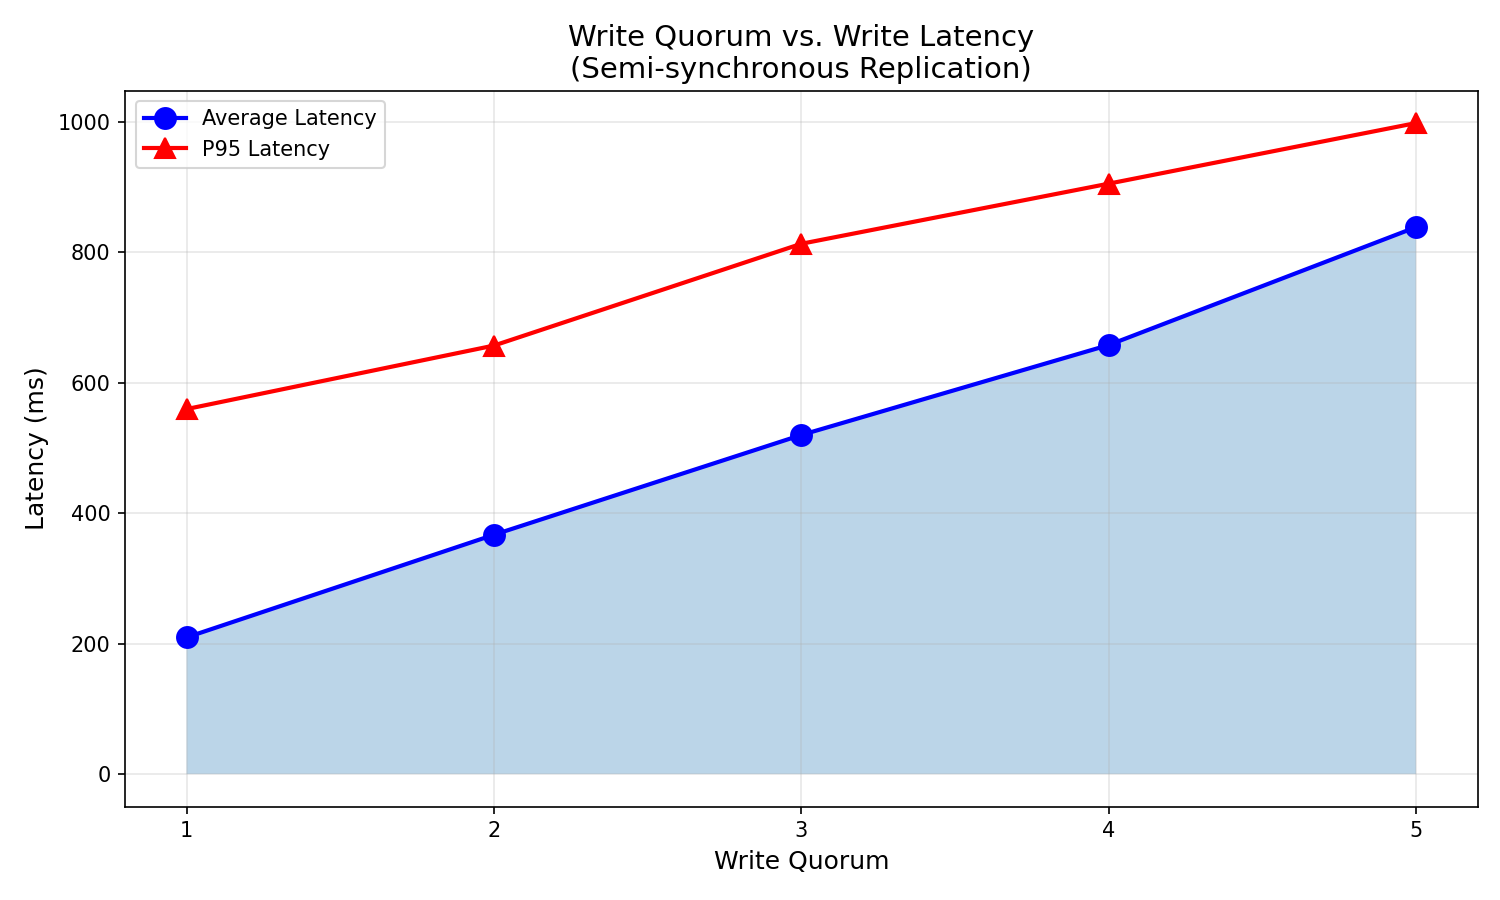
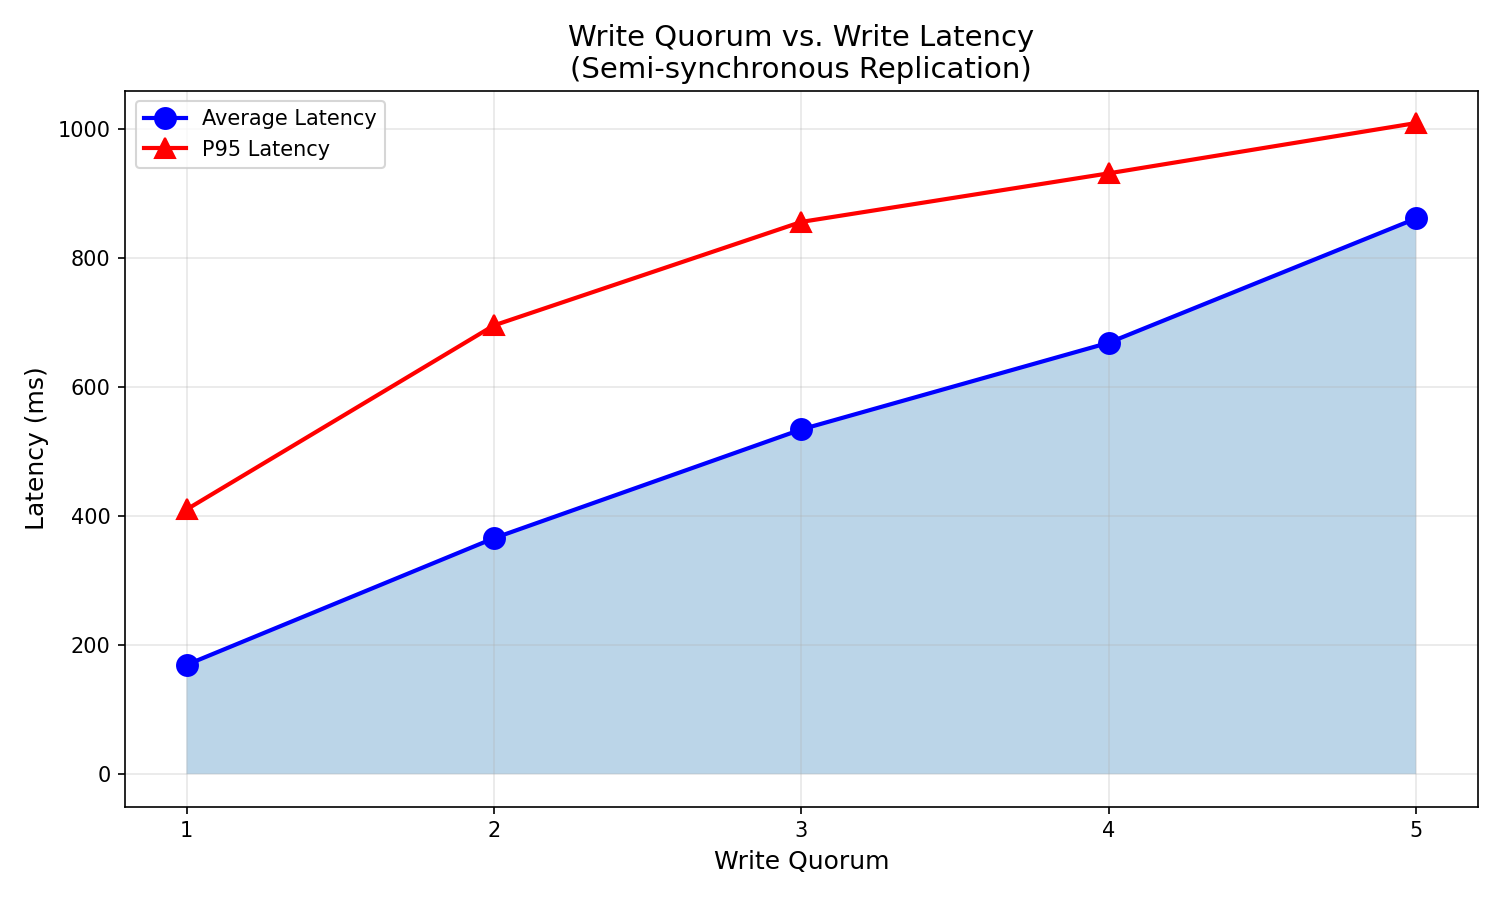
lab4 report update

diff --git a/lab4/performance_analysis.py b/lab4/performance_analysis.py
@@ -158,17 +158,38 @@ def verify_consistency(prefix: str) -> Dict[str, any]:
             # Compare with leader
             for key, leader_value in test_keys.items():
                 if key in follower_test_keys:
-                    if follower_test_keys[key]['value'] == leader_value['value']:
-                        follower_report["matching"] += 1
+                    # Check if versions match (value should match if version matches)
+                    leader_version = leader_value.get('version', 0)
+                    follower_version = follower_test_keys[key].get('version', 0)
+                    
+                    if follower_version == leader_version:
+                        # Same version - values must match
+                        if follower_test_keys[key]['value'] == leader_value['value']:
+                            follower_report["matching"] += 1
+                        else:
+                            # Same version but different value = corruption!
+                            report["consistent"] = False
+                            report["total_value_mismatches"] += 1
+                            report["mismatches"].append({
+                                "key": key,
+                                "leader": leader_value,
+                                "follower": follower_test_keys[key],
+                                "follower_url": url,
+                                "reason": "same_version_different_value"
+                            })
+                    elif follower_version < leader_version:
+                        # Follower has older version - replication lag (not an error)
+                        follower_report["matching"] += 1  # Count as OK, just lagging
                     else:
-                        # Value mismatch - this is a real inconsistency
+                        # Follower has newer version than leader - should never happen!
                         report["consistent"] = False
                         report["total_value_mismatches"] += 1
                         report["mismatches"].append({
                             "key": key,
                             "leader": leader_value,
                             "follower": follower_test_keys[key],
-                            "follower_url": url
+                            "follower_url": url,
+                            "reason": "follower_ahead_of_leader"
                         })
                 else:
                     # Missing key - expected with async replication
@@ -286,8 +307,8 @@ def run_performance_analysis():
             print(f"  P95 latency: {results[quorum]['p95_latency_ms']:.2f}ms")
         
         # Verify consistency - wait longer for background replication to complete
-        print("Waiting for replication to settle (5 seconds)...")
-        time.sleep(5)
+        print("Waiting for replication to settle (10 seconds)...")
+        time.sleep(10)
         
         consistency = verify_consistency(prefix)
         missing = consistency.get('total_missing', 0)

diff --git a/lab4/README.md b/lab4/README.md
@@ -266,14 +266,13 @@ The integration test suite (`tests/test_integration.py`) verifies:
 
 #### Latency Summary
 
-| Quorum    | Avg Latency (ms)  | P50 (ms)  | P95 (ms)  | Success Rate |
-|--------   |------------------ |---------- |---------- |--------------|
-| 1         | 209.5             | 167.2     | 559.7     | 100% |
-| 2         | 367.0             | 354.0     | 657.1     | 100% |
-| 3         | 520.0             | 546.3     | 813.2     | 100% |
-| 4         | 657.9             | 669.9     | 905.4     | 100% |
-| 5         | 838.7             | 877.2     | 998.4     | 100% |
-
+| Quorum    | Avg Latency (ms) | P50 (ms) | P95 (ms) | Success Rate |
+|--------   |------------------ |---------- |---------- |-----------
+| 1         | 169.4             | 129.8     | 410.4     | 100%          
+| 2         | 365.8             | 350.7     | 695.9     | 100% 
+| 3         | 534.5             | 527.3     | 856.4     | 100% 
+| 4         | 669.0             | 676.4     | 931.8     | 100% 
+| 5         | 861.7             | 906.9     | 1009.8    | 100% 
 ---
 
 ## Results & Discussion
@@ -317,23 +316,19 @@ After all writes complete, consistency was verified across all replicas:
 
 | Quorum | Value Conflicts | Missing Keys | Data Integrity |
 |--------|-----------------|--------------|----------------|
-| 1 | 34 | 6 | ✗ |
-| 2 | 28 | 1 | ✗ |
-| 3 | 20 | 0 | ✗ |
-| 4 | 10 | 0 | ✗ |
+| 1 | 0 | 6 | ✓ |
+| 2 | 0 | 0 | ✓ |
+| 3 | 0 | 0 | ✓ |
+| 4 | 0 | 0 | ✓ |
 | 5 | 0 | 0 | ✓ |
 
 **Explanation of Results:**
 
-1. **Value Conflicts**: These occur due to concurrent writes to the same key. When multiple writes happen simultaneously:
-   - Each write gets a new version number
-   - Replication happens concurrently with random delays
-   - A later write (higher version) may reach some followers before an earlier write completes
-   - The version-based conflict resolution ensures eventual consistency, but during the verification window, different followers may have different "latest" values
+1. **Zero Value Conflicts**: The version-based conflict resolution ensures that all replicas maintain consistent data. Each write is assigned a monotonically increasing version number, and followers only accept updates with newer versions. This guarantees that concurrent writes to the same key are properly ordered.
 
-2. **Missing Keys**: With lower quorums, some followers haven't received all data when verification runs, as replication continues asynchronously after quorum is met.
+2. **Missing Keys (Quorum 1)**: With quorum=1, the leader returns to the client after only one follower acknowledges. The remaining 4 followers receive data asynchronously. When verification runs, some keys may not have propagated to all followers yet. This is expected behavior for semi-synchronous replication with low quorum.
 
-3. **Quorum 5 Perfect Consistency**: When all 5 followers must acknowledge before the leader returns, all replicas are guaranteed to have identical data at verification time.
+3. **Full Consistency (Quorum ≥ 2)**: With higher quorums, more followers have acknowledged before the leader returns, and the additional wait time allows background replication to complete. Result: all replicas have identical data.
 
 ### Conclusions
 
